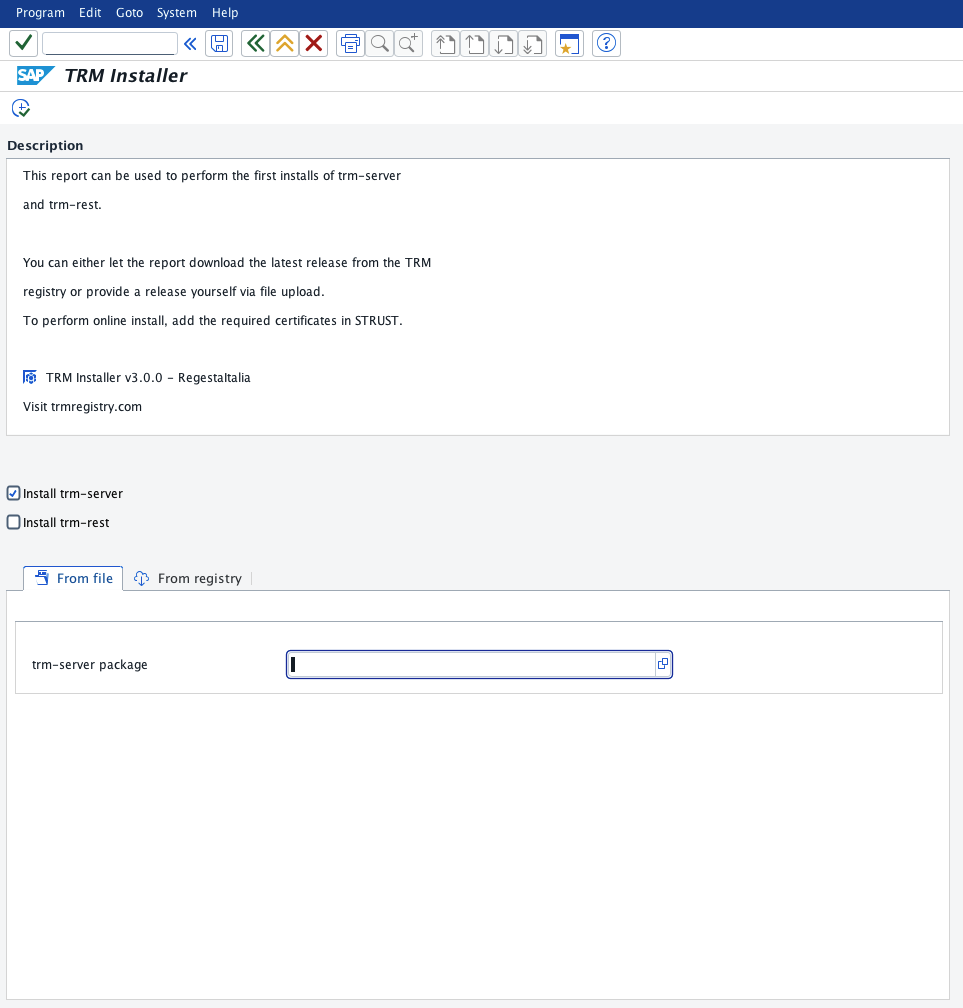
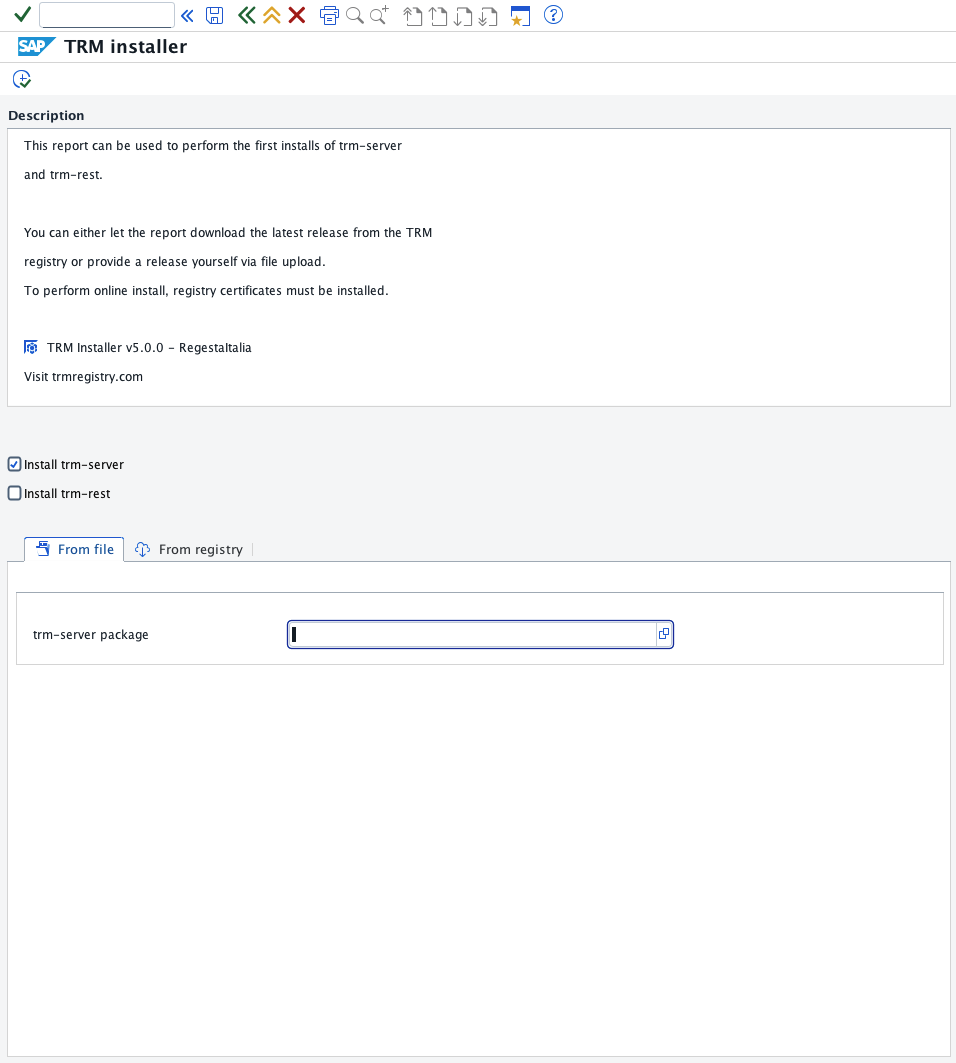
improve docs

diff --git a/docs/server/setup.md b/docs/server/setup.md
@@ -16,7 +16,7 @@ It exposes the APIs that allow TRM to import and export transports. Consequently
 The first installation must be performed using the [standalone installer](https://raw.githubusercontent.com/RegestaItalia/trm-server/refs/heads/main/ztrm_installer.prog.abap).
 
 The **standalone installer** is a self-contained ABAP report that allows the installation of **trm-server** and **trm-rest**.<br>
-The installer imports trm-server transports (and trm-rest transports, if necessary) into your system and automatically moves their objects into the temporary package `$TRM`, which it also creates.<br>
+The installer imports trm-server transports (and trm-rest transports, if necessary) into your system and automatically moves their objects into the temporary package(s) `$TRM`/`$TRM_*`, which it also creates.<br>
 The installer does not import the **/ATRM/** namespace because trm-server and trm-rest are intended to be used as-is. If you need to modify their objects, consider [installing them via abapGit](#install-with-abapgit) instead.
 
 After the initial installation, we recommend installing subsequent updates through TRM.
@@ -55,82 +55,28 @@ After the initial installation, we recommend installing subsequent updates throu
 3. Download [trm-rest](https://trmregistry.com/package/trm-rest) too, if needed
 4. Open SE38 and run `ZTRM_INSTALLER`
 5. Select the file(s) downloaded
-6. Execute the report and wait for the installation to complete (approximately five minutes)
+6. Execute the report and wait for the installation to complete (approximately 10 minutes)
 
 <p align="center">
     <img src="../assets/server/offline.png" alt="ZTRM_INSTALLER">
 </p>
 
+Installation of either package can be performed at any time through this report. However, you should consider using a TRM client when upgrading `trm-server` or `trm-rest`.
+
 <details>
-  <summary>Online install (From registry)</summary>
-
-### Online install
-
-The online installation is only possible if your system is allowed to connect to the external server [https://trmregistry.com](https://trmregistry.com).
-
-#### Download the certificate files
-
-*This paragraph is courtesy of abapGit.org*
-
-##### Option A - Chrome
-
-1. Use Google Chrome to go to [https://trmregistry.com](https://trmregistry.com)
-2. Select the lock icon near the address bar, then select "Connection is secure"
-3. On the Security tab, select "Certificate is valid"
-4. Go to the "Details" tab and select "Export..." to download the certificate
-5. In the "Certification hierarchy" box, select the parent node of the GitHub certificate and export it as well. Repeat the same with the root node.
-
-<p align="center">
-    <img src="https://docs.abapgit.org/img/ssl_setup_chrome.gif" alt="Courtesy of abapGit">
-</p>
-
-##### Option B - Firefox
-
-1. Use Firefox to go to [https://trmregistry.com](https://trmregistry.com)
-2. Select the lock icon, then "More Information..." and "View Certificate"
-3. Switch to the Details tab, choose the first certificate in the hierarchy, and select "Export"
-4. Do the same for the next certificate in the hierarchy
-
-##### Option C - Safari
-
-1. Use Safari to go to [https://trmregistry.com](https://trmregistry.com)
-2. Select the lock icon and then "View Certificate"
-3. In the certificate hierarchy, select the root certificate
-4. Holding down the Option key (⌥), drag the large certificate icon into a text editor
-5. Save the document as a `.PEM` file
-
-#### Install the Certificate Files
-
-*This paragraph is courtesy of abapGit.org*
-
-1. Open transaction `STRUST`
-2. Open the "SSL Client (Anonymous)" folder
-
-<p align="center">
-    <img src="../assets/server/strust_1.png" alt="STRUST">
-</p>
-
-3. Select "Change"
-4. In the third box, labeled "Certificate," select "Import certificate" in the bottom-left corner to import the certificate
-5. Select "Add to certificate list"
-6. Repeat the process for all downloaded certificates
-
-<p align="center">
-    <img src="../assets/server/strust_2.png" alt="STRUST">
-</p>
-
-7. Save
-
-#### Execute TRM Installer online
-
-1. Open SE38 and run `ZTRM_INSTALLER`
-2. In the report, configure the connection settings if needed and choose whether to install `trm-rest`
-3. Execute the report and wait for the installation to complete (approximately five minutes)
+  <summary>Online install (From registry)</summary><br>
+The online installation is only possible if your system is allowed to connect to the external server <a href="https://trmregistry.com">https://trmregistry.com</a>.
 
 <p align="center">
     <img src="../assets/server/online.png" alt="ZTRM_INSTALLER">
 </p>
 
+If you see the "Install certificates" button, then your system is missing the required certificates to trust <a href="https://trmregistry.com">https://trmregistry.com</a>.<br>
+You should either install them manually (via STRUST) or let the report install them by pressing that button.<br>
+
+Once certificates are installed, you can proceede with the install.
+
+Installation of either package can be performed at any time through this report. However, you should consider using a TRM client when upgrading `trm-server` or `trm-rest`.<br>
 </details>
 
 ### Authorize Users
@@ -153,6 +99,8 @@ access will be denied.
 ## Install with abapGit
 
 Because this package uses the **/ATRM/** namespace, installation through [abapGit](https://docs.abapGit.org/) requires a system with this namespace installed.
+
+Installing via abapGit is **not recommended** unless you are planning to contribute new features or bug fixes.
 
 ### Demo systems
 

diff --git a/docs/client/setup.md b/docs/client/setup.md
@@ -19,17 +19,26 @@ After installing [Node.js and npm](https://nodejs.org/en/download), install [trm
 npm install -g trm-client
 ```
 
-## Connect to SAP via RFC
+## Connect to SAP via REST
 
-To connect to an SAP system through RFC, install the prerequisites for [node-rfc](https://github.com/SAP-archive/node-rfc), then run:
+REST is available immediately after installing the client; no additional step is required. The SAP system must have both [trm-server and trm-rest installed](../server/setup.md).
 
-```bash
-npm install -g node-rfc
-```
+When prompted for the connection, select REST and enter the SAP system address and HTTP port.
 
-RFC should now be available as an option when trying to connect to a system.
+If you do not know the address or port:
+
+1. Open transaction `SICF` in the SAP system.
+2. Navigate to `default_host` > `sap` > `ztrmserver`.
+3. Right-click `ztrmserver` and select **Test Service**.
+4. Use the address and port from the URL that opens in your browser.
+
+<p align="center">
+    <img src="../assets/client/sicf.png" alt="SICF">
+</p>
 
 ## Connect to SAP via BTP
+
+SAP BTP is the preferred connection method, especially in CI/CD environments, because traffic reaches the SAP system through SAP's secure connectivity channels.
 
 To connect to an SAP system through a destination exposed by SAP BTP, install the prerequisites for [trm-plugin-btp-dest](https://github.com/RegestaItalia/trm-plugin-btp-dest), then run:
 
@@ -40,3 +49,29 @@ npm install -g trm-plugin-btp-dest
 BTP should now be available as an option when trying to connect to a system.
 
 See [Connect through SAP BTP](btp_destination.md) for the one-time BTP setup and for connecting without prompts, for example from [GitHub Actions](../commons/github_actions.md).
+
+## Connect to SAP via RFC
+
+### Using SAP RFC SDK
+
+> ⚠ **Note**: The `node-rfc` library is deprecated. It still works, but RFC connection support is moving to `open-rfc` (See below).
+
+To connect to an SAP system through RFC, install the prerequisites for [node-rfc](https://github.com/SAP-archive/node-rfc), then run:
+
+```bash
+npm install -g node-rfc
+```
+
+RFC should now be available as an option when trying to connect to a system.
+
+### Using open-rfc
+
+> ⚠ **Note**: The `open-rfc` connection is experimental. You can try it, but it is not recommended for production use.
+
+To connect to an SAP system through open-rfc run:
+
+```bash
+npm install -g trm-plugin-open-rfc-dest
+```
+
+OpenRFC should now be available as an option when trying to connect to a system.

diff --git a/docs/commons/package_across_landscape.md b/docs/commons/package_across_landscape.md
@@ -1,5 +1,5 @@
 ---
-title: Example — move an ABAP package across a landscape
+title: Move an ABAP package across a landscape
 description: Install a TRM package and promote its landscape transport through SAP development, quality, and production systems.
 ---
 
@@ -28,7 +28,7 @@ landscape.
 | **Deletion transport (DELE)** | On an update, removes objects and package definitions that belonged to the installed version but not to the new version, and old customizing the new version doesn't ship. Imported on the installation system only. | No. Its deletions are copied into the landscape transport. |
 | **Landscape transport** | The consolidated transport created from what TRM actually installed: SAP packages, workbench objects, an imported namespace when available, translations, customizing and, on an update, the deletions. | Yes. This is the only delivery unit for downstream systems. |
 
-See [Transports](../commons/transports.md) for an overview of every transport TRM creates.
+See [Transports](transports.md) for an overview of every transport TRM creates.
 
 The transport numbers used to prepare DEVC, TADIR, LANG, and CUST content can therefore remain
 visible in the installation system. Depending on whether the release came from a registry or a
@@ -146,5 +146,5 @@ If the install fails while it installs a dependency, TRM also removes that depen
 transport from the target queue. It can remove it automatically only when it is connected to that
 target system; otherwise the error log tells you to remove it manually in STMS. Before retrying,
 check the named target queue and remove any request that the failed run explicitly marked for
-cleanup. See [If something fails](../commons/install.md#if-something-fails) for the wider rollback
+cleanup. See [If something fails](install.md#if-something-fails) for the wider rollback
 behavior.

diff --git a/docs/examples/3_install_with_a_lockfile.md b/docs/examples/3_install_with_a_lockfile.md
@@ -7,6 +7,8 @@ description: Generate and use a TRM lockfile to install exact ABAP package versi
 
 A lockfile is a file generated by TRM to freeze the exact versions of the dependencies used at a specific moment in time.
 
+> ⚠ **Note**: This page contains screenshots from an older release. The inputs and outputs may differ from those in the current stable release, but the example remains valid. We’re working on updating the example
+
 When a package depends on other packages, those packages might also depend on other packages, and so on. All these versions can change over time. If you install the same package today and then again in six months, the “latest compatible versions” might be different, and that can lead to different behavior or even errors.
 
 A lockfile guarantees that everyone installs the exact same versions, even if newer versions of dependencies exist.

diff --git a/docs/examples/4_dealing_with_release_candidates.md b/docs/examples/4_dealing_with_release_candidates.md
@@ -10,6 +10,8 @@ It’s basically a “preview” version meant for testing before the official r
 
 Release candidates are a useful way to move your product from the central development system to a customer's development system, where better test data may be available. This creates a stage for manual testing before the release is declared final.
 
+> ⚠ **Note**: This page contains screenshots from an older release. The inputs and outputs may differ from those in the current stable release, but the example remains valid. We’re working on updating the example
+
 ## Release tags
 
 Tags are particularly useful for release candidates.

diff --git a/docs/examples/2_package_with_dependencies.md b/docs/examples/2_package_with_dependencies.md
@@ -8,6 +8,8 @@ description: Build and install a TRM package that declares and resolves compatib
 In the last post, we published and installed a simple package.  
 If you remember, we had an empty method without implementation. Now we’re not only going to implement it, but also create a dependency with another TRM package.
 
+> ⚠ **Note**: This page contains screenshots from an older release. The inputs and outputs may differ from those in the current stable release, but the example remains valid. We’re working on updating the example
+
 ## Coding
 
 I’ll start by creating a new SAP package and, inside it, a utility class.

diff --git a/docs/examples/1_publish_and_install.md b/docs/examples/1_publish_and_install.md
@@ -7,6 +7,8 @@ description: Follow a complete TRM example that publishes an SAP ABAP package to
 
 In this guide, we’ll walk through how to **publish and install** a simple TRM package.
 
+> ⚠ **Note**: This page contains screenshots from an older release. The inputs and outputs may differ from those in the current stable release, but the example remains valid. We’re working on updating the example
+
 ## Coding
 
 Let’s start by creating a new SAP package called `ZTRM_DOCS_SAMPLE`, and inside it, a class named `ZCL_TRM_DOCS_SAMPLE`.  

diff --git a/docs/commons/install.md b/docs/commons/install.md
@@ -160,7 +160,7 @@ TRM creates during the install stay on this system, see [Transports](transports.
 
 For the complete operational flow—including which installation requests should not be forwarded,
 what remains after a successful install or update, and the required update import order—see
-[Move an installed package through the landscape](../examples/7_package_across_landscape.md).
+[Move an installed package through the landscape](package_across_landscape.md).
 
 ## If something fails
 

diff --git a/docs/commons/transports.md b/docs/commons/transports.md
@@ -130,7 +130,7 @@ The landscape transport isn't created when:
 - the system has no transport targets: TRM considers it the last system of the landscape;
 - the package is installed into temporary (`$`) ABAP packages, which can't be transported.
 
-See [Move an installed package through the landscape](../examples/7_package_across_landscape.md)
+See [Move an installed package through the landscape](package_across_landscape.md)
 for the complete process.
 
 ### Summary

diff --git a/docs/business_cases/7_customer_onboarding.md b/docs/business_cases/7_customer_onboarding.md
@@ -49,4 +49,4 @@ A package name, version, manifest, and repeatable installation workflow make the
 technical handover match the commercial promise: the customer receives a defined
 software release, not merely a collection of changes.
 
-See [Package across a landscape](../examples/7_package_across_landscape.md).
+See [Package across a landscape](../commons/package_across_landscape.md).
